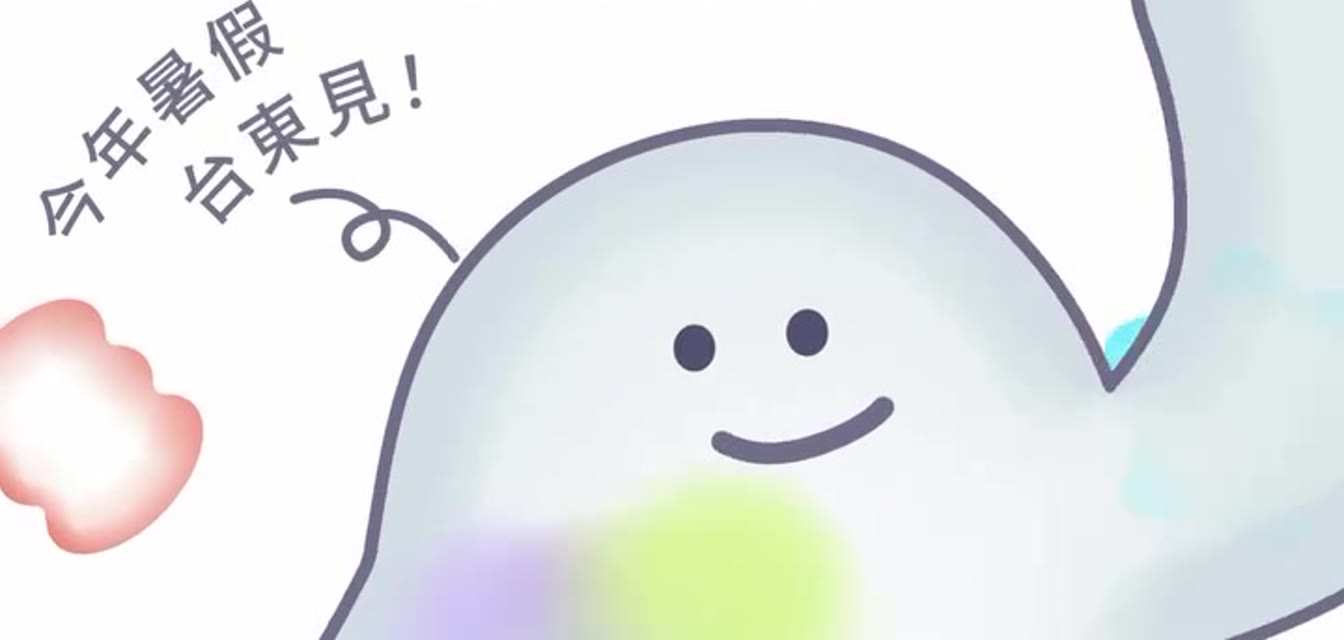
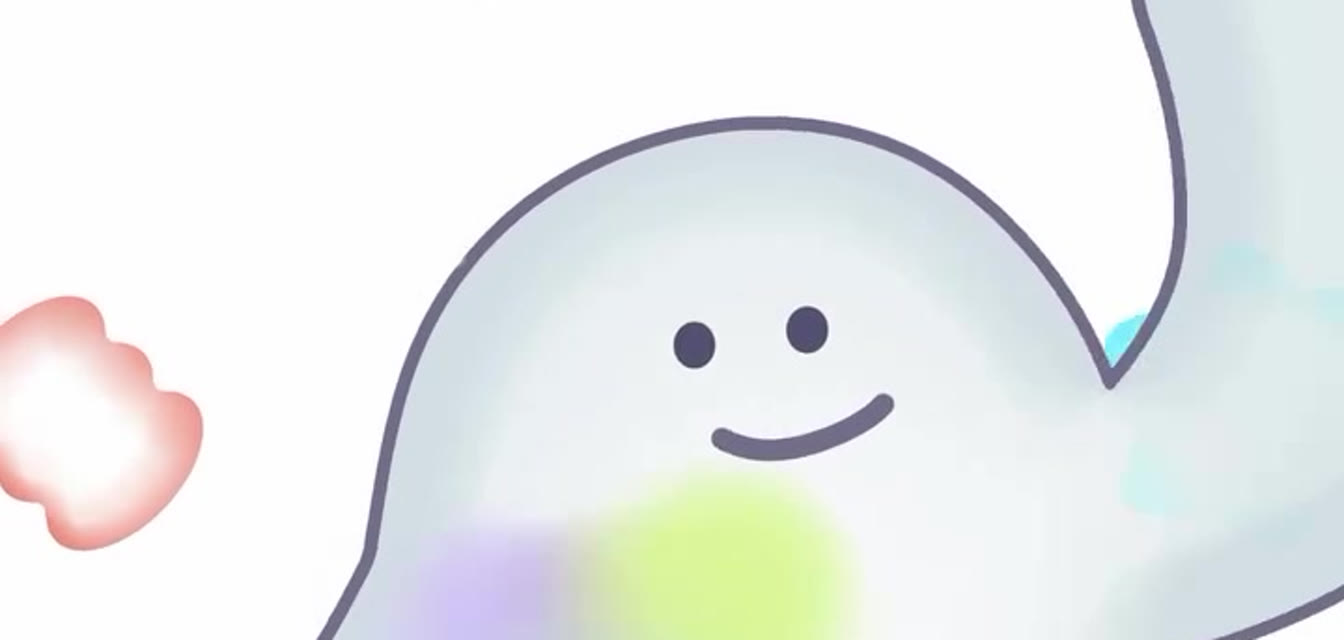
Taitung Expo 2026: remove the caption text from the cover
Claude-Session: https://claude.ai/code/session_01AzJxtJ17jjw42rGa6EsLWG

diff --git a/work/index.html b/work/index.html
@@ -49,7 +49,7 @@
          沒有案例頁的作品：href="#"，data-film="vimeo:編號" 會在本頁跳出影片；data-loop 是滑過時播的片段。影片來源見 notes/video-map.md -->
     <div class="work-grid dense tiles" id="work-list">
       <a class="card" href="taitung-expo-2026.html" data-tags="exhibition" data-loop="../videos/taitung-expo-2026/loop.mp4">
-        <div class="media ratio-16x9"><img src="../images/taitung-expo-2026-cover-960.jpg?v=5" alt="Taitung Expo 2026 未來人孵化器 畫面" loading="lazy"><div class="media-blur" aria-hidden="true" style="background-image:url('../images/taitung-expo-2026-cover-960.jpg?v=5')"></div></div>
+        <div class="media ratio-16x9"><img src="../images/taitung-expo-2026-cover-960.jpg?v=6" alt="Taitung Expo 2026 未來人孵化器 畫面" loading="lazy"><div class="media-blur" aria-hidden="true" style="background-image:url('../images/taitung-expo-2026-cover-960.jpg?v=6')"></div></div>
         <div class="card-cap"><div class="card-title"><div><h3>Taitung Expo 2026</h3><span class="zh">未來人孵化器 教育展 宣傳動畫</span></div><span class="mono muted">2026</span></div>
         <div class="tags"><span>展覽</span><span>JP Space</span></div></div>
       </a>
